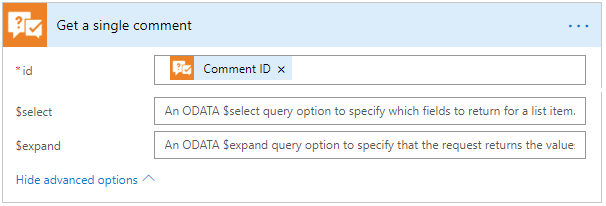
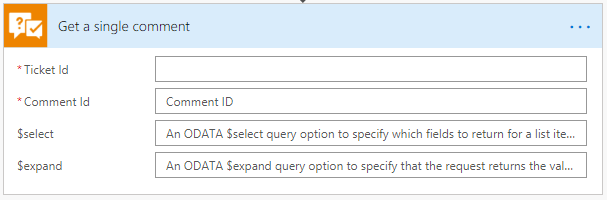
Get single comment fixes

Changed region(s): [[0.0, 0.0, 1.0, 0.99], [0.9208, 0.12, 0.9802, 0.15]]

diff --git a/Online/API/flow-actions.rst b/Online/API/flow-actions.rst
@@ -604,8 +604,11 @@ Gets a comment by Id and returns it.
     *  -  Parameter
        -  Description
        -  Example
-    *  -  id
-       -  Comment ID
+    *  -  Ticket Id
+       -  Ticket identifier
+       -  1
+    *  -  Comment Id
+       -  Comment identifier
        -  1
     *  -  $select
        -  An `ODATA`_ $select query option to specify which fields to return for a list item. You can use * to return all available fields.
